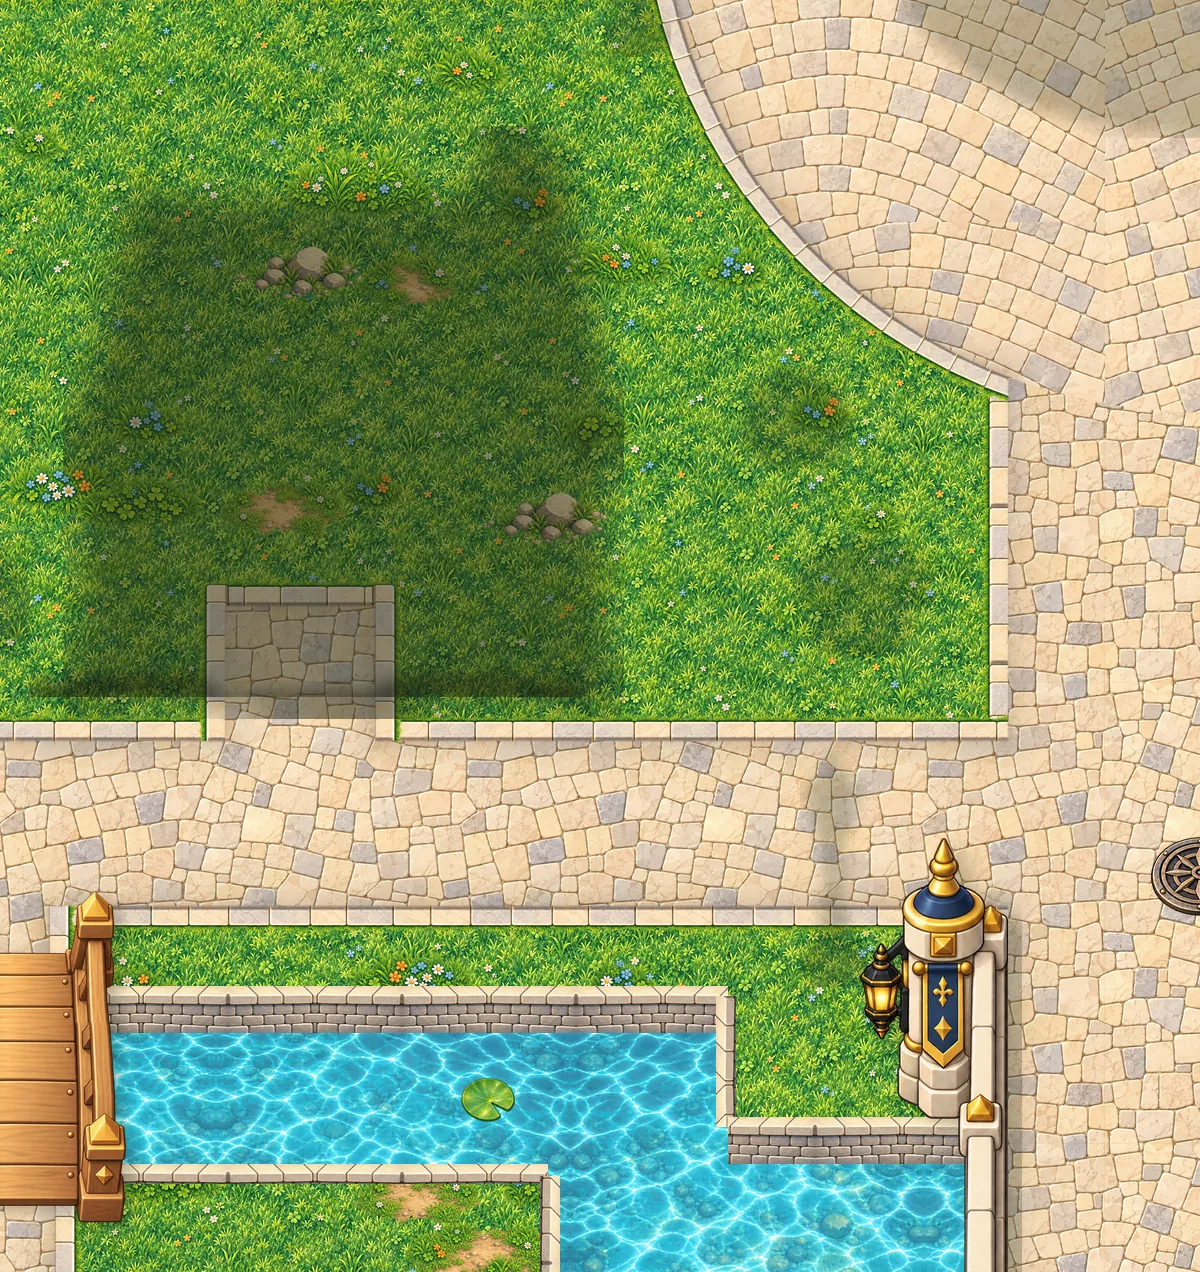
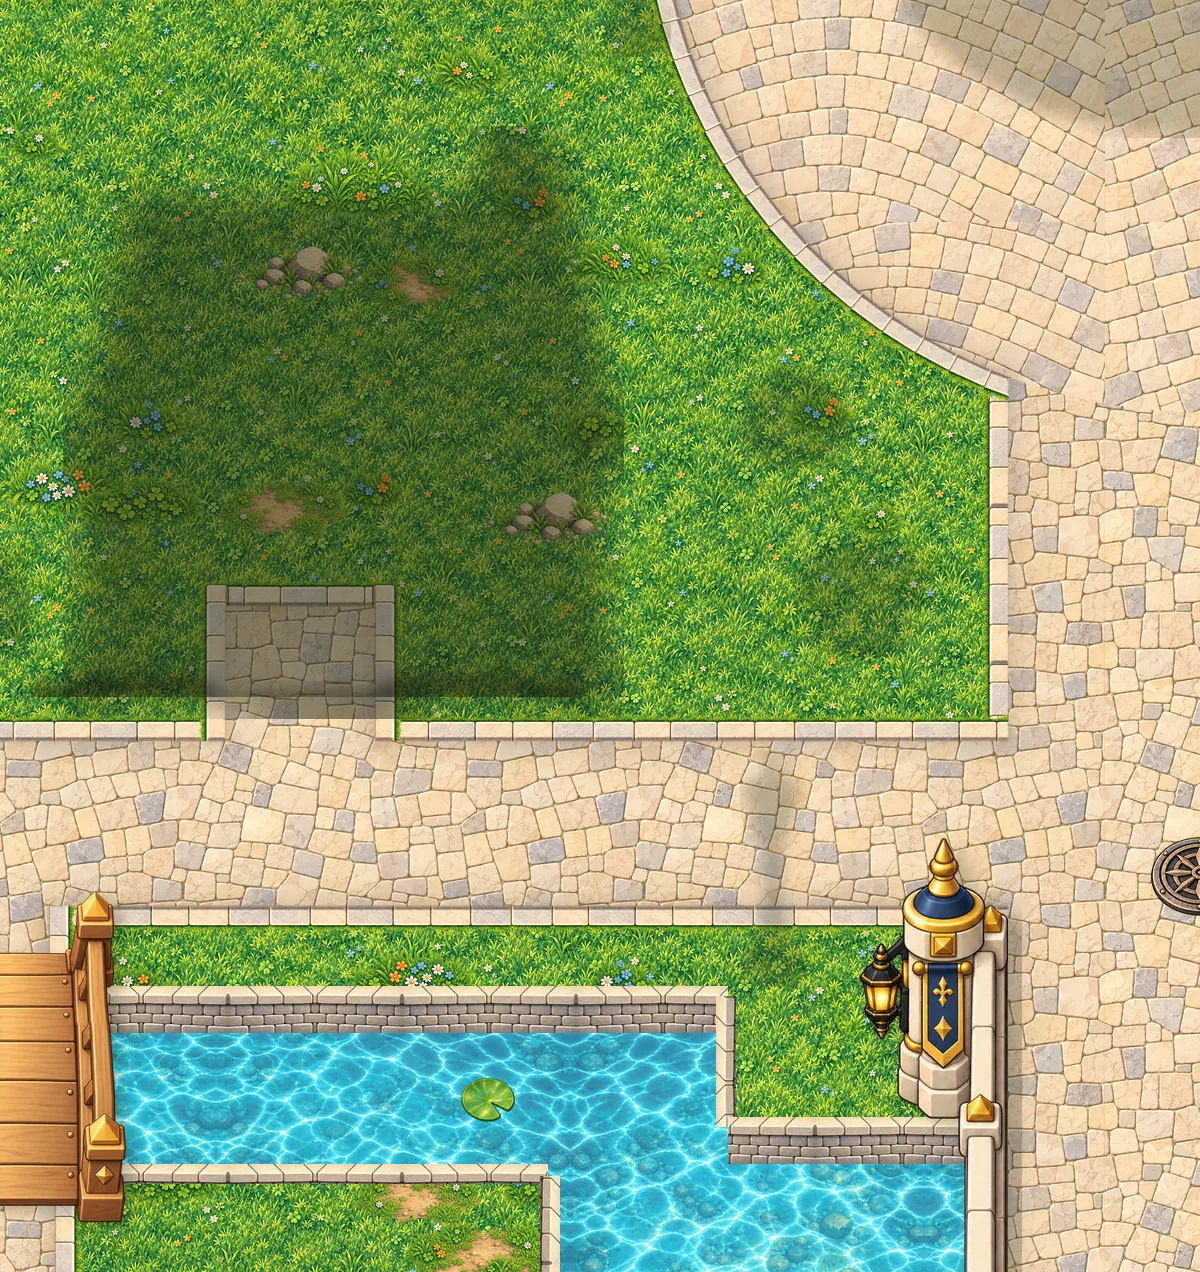
H の直し：石の橋の北の塔の横の街灯2本を、塔の街灯と重ならないよう外へずらす
Claude-Session: https://claude.ai/code/session_01GPUK2wgZSMg2oLpM21sg9W

Changed region(s): [[0.6167, 0.5825, 0.74, 0.7972]]

diff --git a/src/data/worldArt.generated.ts b/src/data/worldArt.generated.ts
@@ -319,7 +319,7 @@ export const WORLD_ART: Readonly<Record<string, ArtMap>> = {
    "############,,,,,,,,,,,,,=======================================================================================================================,,,,,,,,,,,,,,,,,,,,,,,,,,,,,,,,,,,,,,,,,,,#############",
    "#########,,,,,,,,,,,,,,,,,,,,,,,,,,,,,,,,,,,,,,,,===,,,,,,,,,,,,,,,,,,,,,,,,,,,,,,,,,,,,,,,,================,,,,,,,,,,,,,,,,,,,,,,,,,,,,,,,,,,,,,,,,,,,,,,,,,,,,,,,,,,,,,,,,,,,,,,,,,,,,,,,,,,,#########",
    "#########,,,,,,,,,,,,,,,,,,,,,,,,,,,,,,,,,,,,,,,,===,,,,,,,,,,,,,,,,,,,,,,,,,,,,,,,,,,,,,,,,================,,,,,,,,,,,,,,,,,,,,,,,,,,,,,,,,,,,,,,,,,,,,,,,,,,,,,,,,,,,,,,,,,,,,,,,,,,,,,,,,,,,#########",
-   "################################################,===#############################,,###,,,,,,================,,,###,,,,,,,,,,,,,,,,,,,,,,,,,,,,,,,,,,,,,,,,,,,,,,,,,,,,,,,,,,,,,,,,,,,,,,,,,#############",
+   "################################################,===###############################,,,,,,,,,================,,,,,,,,,##,,,,,,,,,,,,,,,,,,,,,,,,,,,,,,,,,,,,,,,,,,,,,,,,,,,,,,,,,,,,,,,,,,,,#############",
    "################################################,,,,##############################,,,,,,,,,,================,,,,,,,,,,,,,,,,,,,,,,,,,,,,,,,,,,,,,,,,,,,,,,,,,,,,,,,,,,,,,,,,,,,,,,,,,,,,,,,#############",
    "################################################,,,,##############################,,,,,,,,,,================,,,,,,,,,,,,,,,,,,,,,,,,,,,,,,,,,,,,,,,,,,,,,,,,,,,,,,,,,,,,,,,,,,,,,,,,,,,,,,,#############",
    "################################################,,,,##############################,,,,,,,,,,================,,,,,,,,,,,,,,,,,,,,,,,,,,,,,,,,,,,,,,,,,,,,,,,,,,,,,,,,,,,,,,,,,,,,,,,,,,,,,,,,,,,#########",
@@ -2047,7 +2047,7 @@ export const WORLD_ART: Readonly<Record<string, ArtMap>> = {
    },
    {
     "file": img32,
-    "x": 2655,
+    "x": 2575,
     "y": 4385,
     "w": 89,
     "h": 315,
@@ -2055,7 +2055,7 @@ export const WORLD_ART: Readonly<Record<string, ArtMap>> = {
    },
    {
     "file": img32,
-    "x": 3555,
+    "x": 3735,
     "y": 4385,
     "w": 89,
     "h": 315,

diff --git a/tools/design/town2026_build.py b/tools/design/town2026_build.py
@@ -270,7 +270,8 @@ PROPS = [
     # 2026-10-29 夜の点検：東の街灯が広場の丸いふちにかかっていたので西へ（前は 2500）
     ('lamp', 1500, 3460), ('lamp', 2440, 3460), ('planter', 2250, 2400), ('flowerbowl', 2200, 2800),
     # ピート・ハロルドの家の前・仕立て屋の前
-    ('lamp', 1250, 4690), ('lamp', 2700, 4700), ('planter', 4950, 4300), ('lamp', 3600, 4700),
+    # 2026-10-30：石の橋の北の塔（街灯つき）と重ならないよう、塔の外へ（前は 2700・3600）
+    ('lamp', 1250, 4690), ('lamp', 2620, 4700), ('planter', 4950, 4300), ('lamp', 3780, 4700),
     # 南の大通り（14 南の門のまえ・20 ★）
     # 2026-10-29：石の橋の南のはしの街灯2本は、橋の柱の街灯と重なって見えたので外した
     # 2026-10-29 夜：南の大通りの東の芝生のベンチは、道の方（西）を向く横向きのベンチに（前は正面向き 3780, 5920 で南を向いていた）

diff --git a/docs/parts-bgm-panel-20261030.md b/docs/parts-bgm-panel-20261030.md
@@ -13,6 +13,7 @@ H → I → J の順に、それぞれ main に取り込んで公開した。セ
 - 03 排水溝・04 木箱・花壇・立て札：外していた物を戻した・立て札を替えた（`ANGLE_OFF` は空）
 - 05 屋台：3つとも同じ倍率（0.62）・同じ足元の高さ
 - 06 大工の小屋：戸の高さ 215（ほかの家の扉と同じ）。前より横に広いので、北の高台のふちにかからないよう少し東へ（x 4700 → 4820）
+- 石の橋の北の塔の横の街灯2本（前から置いてあった物）は、塔の街灯と重なったので塔の外へずらした（x 2700 → 2620・3600 → 3780）
 - 07 階段：段（手すりの柱の内側）だけ歩ける。石垣は柱の下に 30 だけ差しこむ（`STAIR_TUCK`。前は下ほど広がる形で 140）
 - テスト：石の橋の歩ける幅を新しい床の幅（x 2944〜3456）に直した（`tests/town2026.test.ts`）
 
